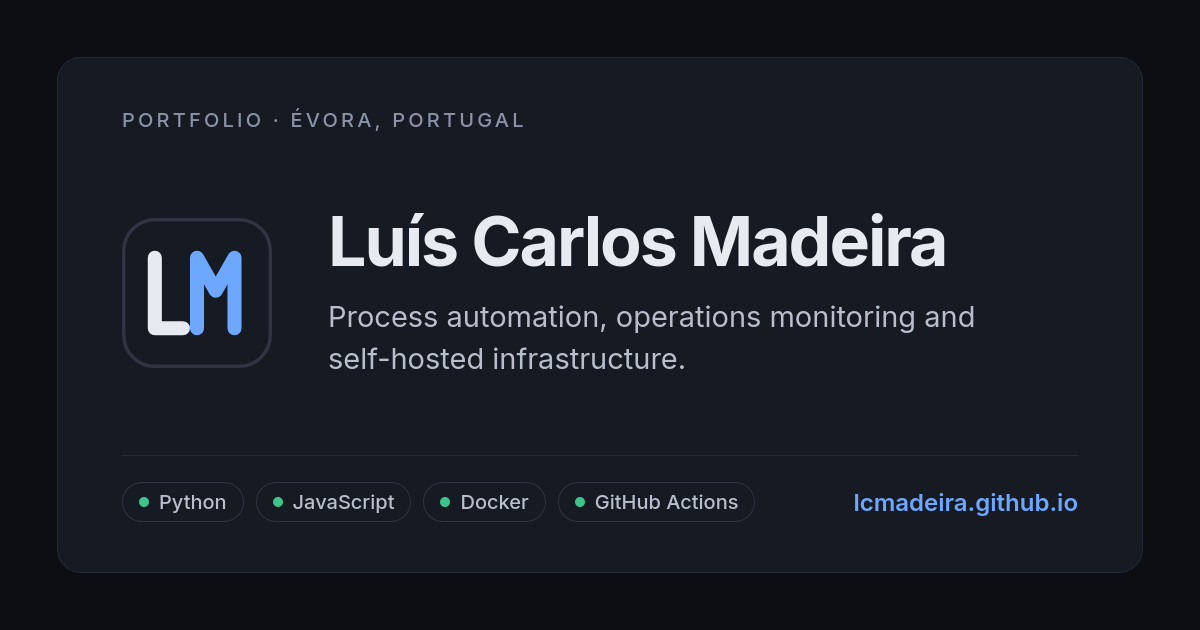
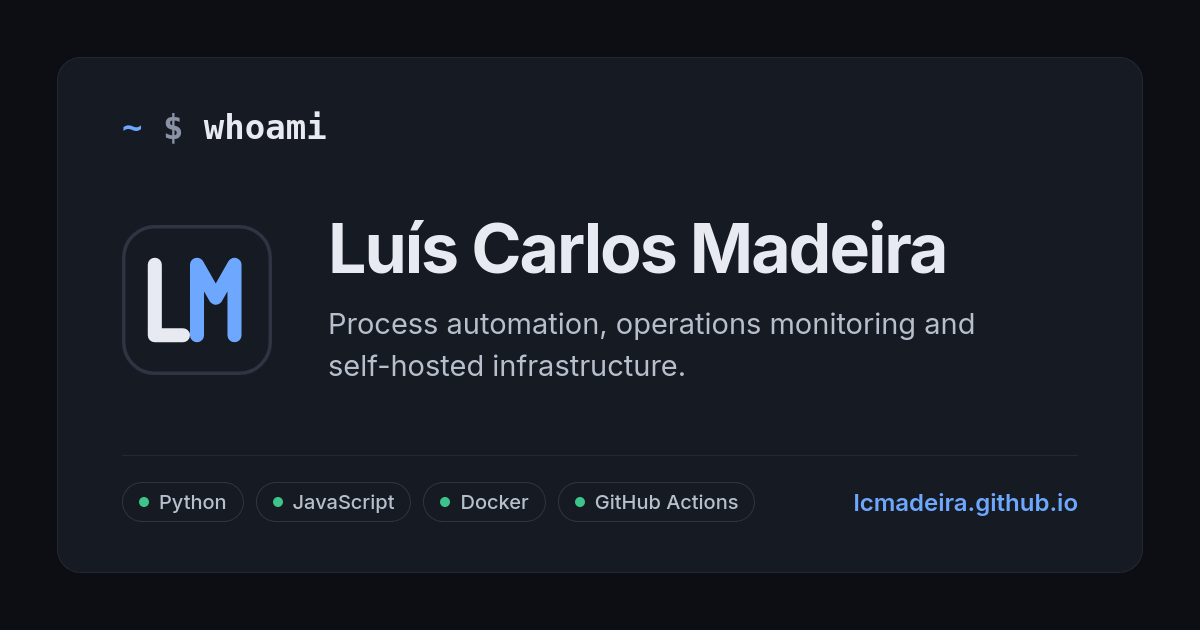
Topo: repor "~ $ whoami" em destaque
Substitui a etiqueta "Portfólio · Évora, Portugal" (Évora continua no
rodapé). Imagens de pré-visualização refeitas (?v=4).

diff --git a/scripts/og-image.html b/scripts/og-image.html
@@ -20,7 +20,9 @@
     padding: 52px 64px 50px;
     display: grid; grid-template-rows: auto 1fr auto;
   }
-  .kicker { margin: 0; font: 500 20px/1 "Inter", sans-serif; letter-spacing: .16em; text-transform: uppercase; color: #8A93A5; }
+  .prompt { margin: 0; font: 700 34px/1 ui-monospace, "DejaVu Sans Mono", monospace; color: #E7EAF0; }
+  .prompt b { color: #6EA8FE; font-weight: 700; }
+  .prompt span { color: #8A93A5; }
   .main { display: grid; grid-template-columns: 150px 1fr; column-gap: 56px; align-items: center; }
   .logo { width: 150px; height: 150px; display: block; }
   h1 { margin: 0 0 18px; font: 700 68px/1.05 "Inter", sans-serif; color: #E7EAF0; letter-spacing: -0.03em; }
@@ -35,7 +37,7 @@
 </head>
 <body>
 <div class="card">
-  <p class="kicker" id="kicker">Portfólio · Évora, Portugal</p>
+  <p class="prompt"><b>~</b> <span>$</span> whoami</p>
   <div class="main">
     <img class="logo" src="../favicon.svg" alt="">
     <div>
@@ -51,7 +53,6 @@
 <script>
   if (location.search.indexOf('en') !== -1) {
     document.documentElement.lang = 'en';
-    document.getElementById('kicker').textContent = 'Portfolio · Évora, Portugal';
     document.getElementById('lede').innerHTML = 'Process automation, operations monitoring and <span class="nw">self-hosted</span> infrastructure.';
   }
 </script>

diff --git a/index.html b/index.html
@@ -25,7 +25,7 @@
 <meta property="og:url" content="https://lcmadeira.github.io/">
 <meta property="og:title" content="Luís Carlos Madeira">
 <meta property="og:description" content="Automação de processos, monitorização de operações e infraestrutura self-hosted.">
-<meta property="og:image" content="https://lcmadeira.github.io/assets/og.png?v=3">
+<meta property="og:image" content="https://lcmadeira.github.io/assets/og.png?v=4">
 <meta property="og:image:width" content="1200">
 <meta property="og:image:height" content="630">
 <meta property="og:image:alt" content="Luís Carlos Madeira: automação de processos, monitorização de operações e infraestrutura self-hosted.">
@@ -92,7 +92,7 @@
 
   <header class="intro">
     <div class="intro-top">
-      <p class="kicker">Portfólio · Évora, Portugal</p>
+      <p class="prompt"><b>~</b> <span>$</span> whoami</p>
       <nav class="lang" aria-label="Idioma"><a href="./" aria-current="page" hreflang="pt-PT" lang="pt-PT">PT</a><a href="en/" hreflang="en" lang="en">EN</a></nav>
     </div>
     <div class="intro-body">

diff --git a/en/index.html b/en/index.html
@@ -24,7 +24,7 @@
 <meta property="og:url" content="https://lcmadeira.github.io/en/">
 <meta property="og:title" content="Luís Carlos Madeira">
 <meta property="og:description" content="Process automation, operations monitoring and self-hosted infrastructure.">
-<meta property="og:image" content="https://lcmadeira.github.io/assets/og-en.png?v=3">
+<meta property="og:image" content="https://lcmadeira.github.io/assets/og-en.png?v=4">
 <meta property="og:image:width" content="1200">
 <meta property="og:image:height" content="630">
 <meta property="og:image:alt" content="Luís Carlos Madeira: process automation, operations monitoring and self-hosted infrastructure.">
@@ -91,7 +91,7 @@
 
   <header class="intro">
     <div class="intro-top">
-      <p class="kicker">Portfolio · Évora, Portugal</p>
+      <p class="prompt"><b>~</b> <span>$</span> whoami</p>
       <nav class="lang" aria-label="Language"><a href="../" hreflang="pt-PT" lang="pt-PT">PT</a><a href="./" aria-current="page" hreflang="en" lang="en">EN</a></nav>
     </div>
     <div class="intro-body">

diff --git a/assets/site.css b/assets/site.css
@@ -58,7 +58,9 @@ a:focus-visible, button:focus-visible { outline: 2px solid var(--accent); outlin
 /* Cabeçalho */
 .intro { display: grid; gap: 1.5rem; padding-bottom: 2rem; border-bottom: 1px solid var(--b); }
 .intro-top { display: flex; justify-content: space-between; align-items: center; gap: 1rem; }
-.kicker { margin: 0; font-size: .74rem; font-weight: 500; letter-spacing: .14em; text-transform: uppercase; color: var(--t3); }
+.prompt { margin: 0; font: 600 clamp(1.15rem, 2.2vw, 1.35rem)/1 var(--mono); color: var(--text); letter-spacing: -.01em; }
+.prompt b { color: var(--accent); font-weight: 700; }
+.prompt span { color: var(--t3); }
 .intro-body { display: grid; gap: 1.75rem; align-items: end; }
 .intro-main { display: grid; gap: 1.1rem; }
 @media (min-width: 900px) { .intro-body { grid-template-columns: minmax(0, 1fr) 24rem; gap: 3rem; } }

diff --git a/docs/decisoes.md b/docs/decisoes.md
@@ -26,6 +26,7 @@ Formato: **decisão**: razão. *(data, pull request quando existe)*
 ## Design
 
 - **Sistema visual do Painel Pessoal** (`lcmadeira.github.io/dash`): fundo quase preto em três níveis (fundo, superfície, cartão), texto em três níveis, azul `#6EA8FE` para interação e destaque, verde, âmbar e vermelho só com significado (recente, aviso, erro); letra Inter; pílulas arredondadas para selos, tecnologias e estado; etiquetas em maiúsculas espaçadas. O autor preferia este estilo ao Catppuccin: o portfólio e o projeto em destaque ficam com a mesma identidade. *(23-11-2026)*
+- **`~ $ whoami` no topo, em destaque** (letra monoespaçada, `~` a azul): dá o tom técnico e liga ao terminal de "O que uso". Foi trocado por uma etiqueta "Portfólio · Évora, Portugal" ao adotar o estilo do painel e reposto a pedido do autor; Évora fica no rodapé. *(23-11-2026)*
 - **Só tema escuro**, como o painel: um segundo tema duplicava o trabalho de cada alteração visual sem ganho claro para um portfólio técnico. `color-scheme: dark` e uma única `theme-color`. *(23-11-2026)*
 - **Ícone LM desenhado com traços** (`favicon.svg`), sem depender de letra instalada: L claro e M azul sobre o cartão escuro; legível a 16 px. Os PNG e o ICO são gerados a partir do SVG. *(23-11-2026)*
 - **Paleta do fastfetch** com as cores do sistema visual, em vez das 14 do Catppuccin. *(23-11-2026)*
